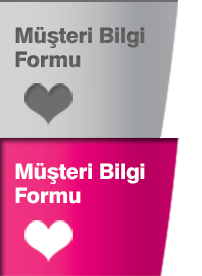
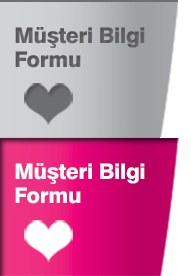
HQ and share prob

diff --git a/cosmeticshop/www/js/index.js b/cosmeticshop/www/js/index.js
@@ -535,13 +535,13 @@ var app = {
 		/* set size of headers */
 		styles.push('div[data-role="header"] { height: ' + app.headerHeight + 'px; }\r');
 
-		/* set #home-page menu size (size: 202x276) */
+		/* set #home-page menu size (size: 191x276) */
 		//var menuWidth = app.windowHeight * 147 / 901;
 		//var menuHeight = menuWidth * 106 / 147;
 		//console.warn("h: " + menuHeight + ", w: " + menuWidth);
 		var menuH = (276 / 2 * 8) + (276 / 2 / 2);
-		var menuW = (app.windowHeight * 202 / menuH).toFixed(0);
-		menuH = (menuW * (276 / 2 / 202)).toFixed(0);
+		var menuW = (app.windowHeight * 191 / menuH).toFixed(0);
+		menuH = (menuW * (276 / 2 / 191)).toFixed(0);
 		console.warn("h: " + menuH + ", w: " + menuW);
 		styles.push('#left-menu { width: ' + menuW + 'px; }\r');
 		styles.push('#left-menu a { height: ' + menuH + 'px; background-size: ' + menuW + 'px; }\r');
@@ -1201,9 +1201,9 @@ var app = {
 						*/
 						//window.plugins.socialsharing.share('My text with a link: serviceHost);
 						if (imageUrl != "") {
-							window.plugins.socialsharing.share(html, subject, imageUrl);
+							window.plugins.socialsharing.share(body, subject, imageUrl);
 						} else {
-							window.plugins.socialsharing.share(html, subject);
+							window.plugins.socialsharing.share(body, subject);
 						}
 						//window.plugins.socialsharing.share(glog2.logString);
 

diff --git a/cosmeticshop/www/js/app.js b/cosmeticshop/www/js/app.js
@@ -1,4 +1,4 @@
-var internalVersion = "Version 1.0.1 Build:848";
+var internalVersion = "Version 1.0.1 Build:850";
 
 //var serviceHost = "http://www.gtech.com.tr/cosmetica";
 var serviceHost = "http://www.cosmeticamobile.com";
